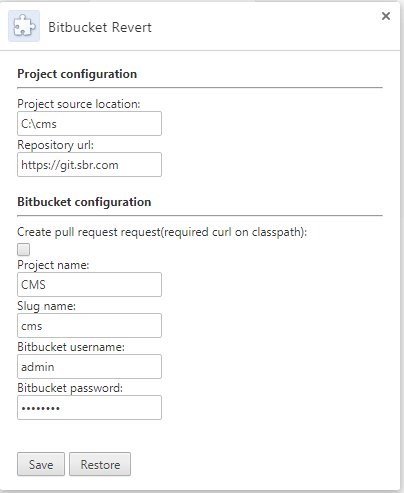
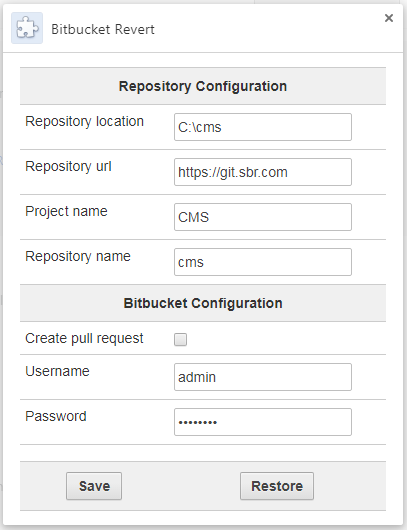
Updated config

diff --git a/Bitbucket Revert/options.html b/Bitbucket Revert/options.html
@@ -1,45 +1,58 @@
 <!DOCTYPE html>
 <html>
-<head><title>Bitbucket merge revert configuration</title></head>
+<head><title>Bitbucket Revert Configuration</title></head>
 <body>
-<strong>Project configuration</strong>
-<hr/>
-Project source location:
-<br/>
-<input type="text" id="dir">
-<br/>
-Repository url:
-<br/>
-<input type="text" id="repo">
-<br/>
-<br/>
-<strong>Bitbucket configuration</strong>
-<hr/>
-Create pull request request(required curl on classpath):
-<br/>
-<input type="checkbox" id="pr">
-<br/>
-Project name:
-<br/>
-<input type="text" id="prj">
-<br/>
-Slug name:
-<br/>
-<input type="text" id="slg">
-<br/>
-Bitbucket username:
-<br/>
-<input type="text" id="usr">
-<br/>
-Bitbucket password:
-<br/>
-<input type="password" id="pwd">
-<br/>
-<br/>
-<strong><div id="status" style="color:green;"></div></strong>
-<br/>
-<button id="save">Save</button>
-<button id="restore">Restore</button>
+<style type="text/css">
+.tg  {border-collapse:collapse;border-spacing:0;border-color:#ccc;}
+.tg td{font-family:Arial, sans-serif;font-size:14px;padding:8px 5px;border-style:solid;border-width:0px;overflow:hidden;word-break:normal;border-color:#ccc;color:#333;background-color:#fff;border-top-width:1px;border-bottom-width:1px;}
+.tg th{font-family:Arial, sans-serif;font-size:14px;font-weight:normal;padding:10px 5px;border-style:solid;border-width:0px;overflow:hidden;word-break:normal;border-color:#ccc;color:#333;background-color:#f0f0f0;border-top-width:1px;border-bottom-width:1px;}
+.tg .tg-e3zv{font-weight:bold}
+.tg .tg-yw4l{vertical-align:top}
+.tg .tg-9hbo{font-weight:bold;vertical-align:top}
+</style>
+<table class="tg" style="width:100%">
+  <tr>
+    <th class="tg-e3zv" colspan="2">Repository Configuration</th>
+  </tr>
+  <tr>
+    <td class="tg-yw4l">Repository location</td>
+    <td class="tg-yw4l"><input type="text" id="dir"></td>
+  </tr>
+  <tr>
+    <td class="tg-yw4l">Repository url</td>
+    <td class="tg-yw4l"><input type="text" id="repo"></td>
+  </tr>
+  <tr>
+    <td class="tg-yw4l">Project name</td>
+    <td class="tg-yw4l"><input type="text" id="prj"></td>
+  </tr>
+  <tr>
+    <td class="tg-yw4l">Repository name</td>
+    <td class="tg-yw4l"><input type="text" id="slg"></td>
+  </tr>
+  <tr>
+    <th class="tg-e3zv" colspan="2">Bitbucket Configuration</th>
+  </tr>
+  <tr>
+    <td class="tg-yw4l">Create pull request</td>
+    <td class="tg-yw4l"><input type="checkbox" id="pr"></td>
+  </tr>
+  <tr>
+    <td class="tg-yw4l">Username</td>
+    <td class="tg-yw4l"><input type="text" id="usr"></td>
+  </tr>
+  <tr>
+    <td class="tg-yw4l">Password</td>
+    <td class="tg-yw4l"><input type="password" id="pwd"></td>
+  </tr>
+  <tr>
+    <td class="tg-e3zv" colspan="2"><div id="status" style="color:green;"></td>
+  </tr>
+  <tr>
+    <th class="tg-e3zv"><button id="save">Save</button></th>
+    <th class="tg-e3zv"><button id="restore">Restore</button></th>
+  </tr>
+</table>
 <script src="options.js"></script>
 </body>
 </html>
